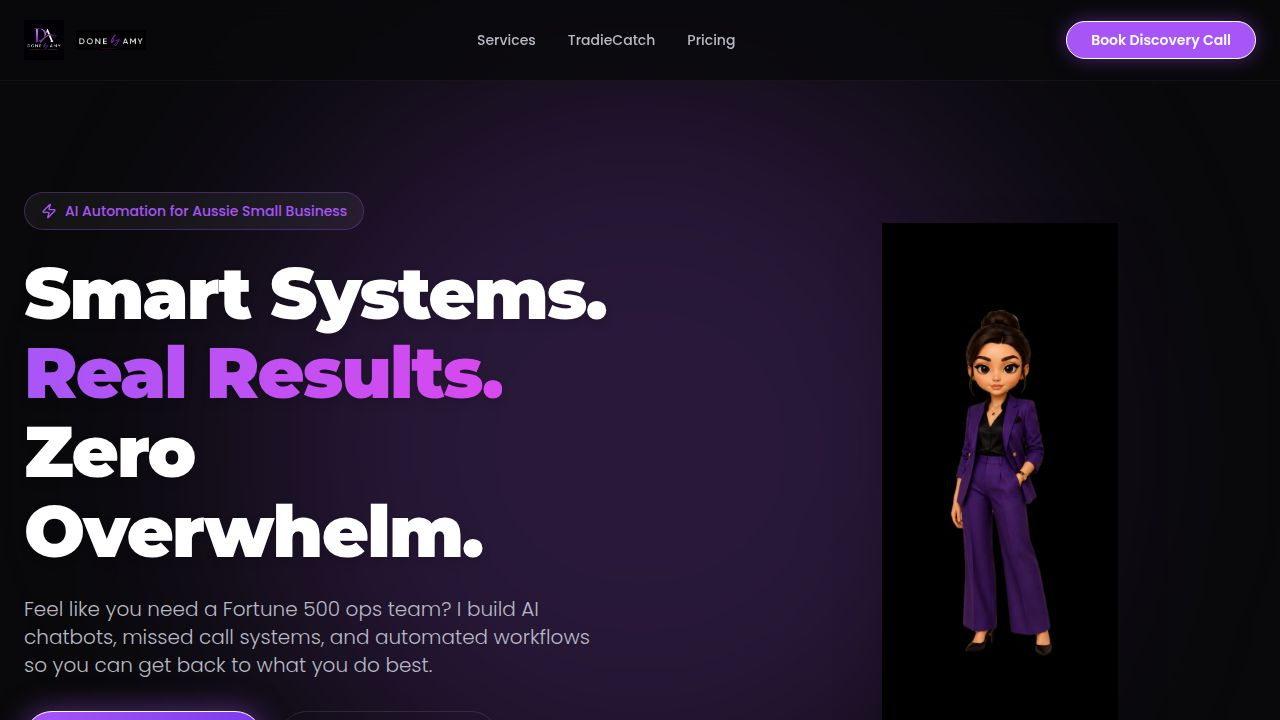
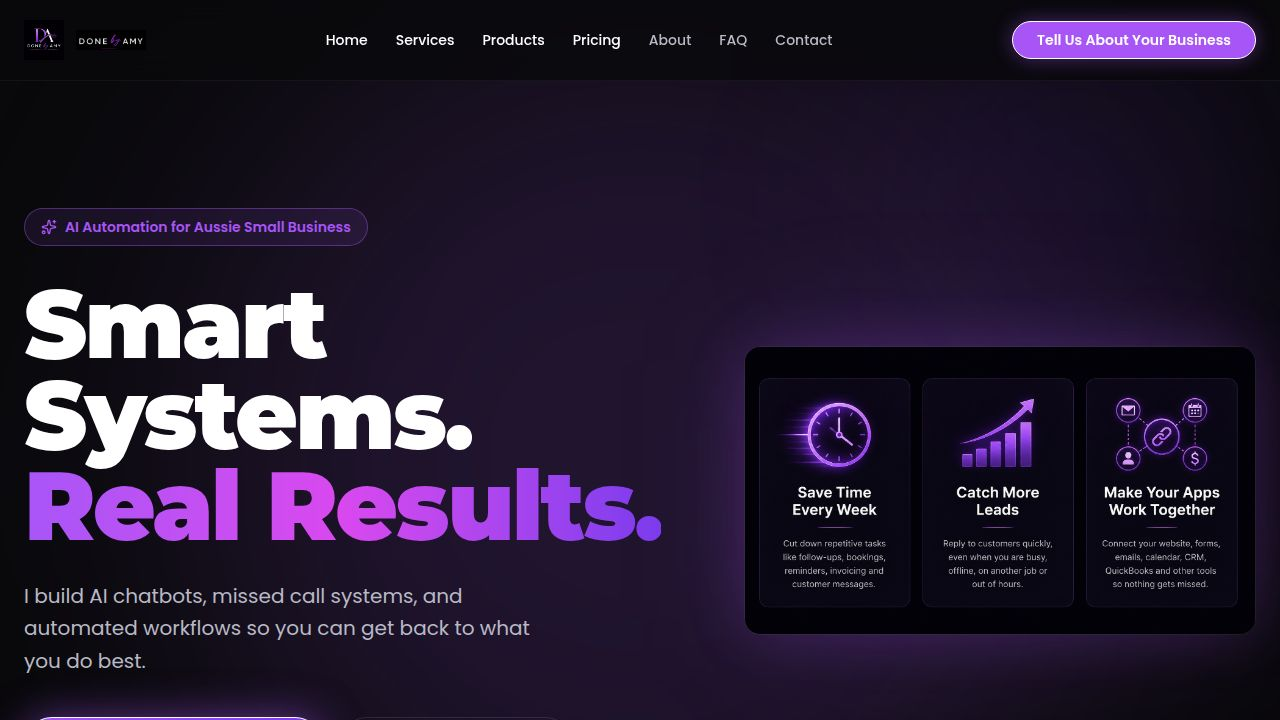
Update the website's tagline to emphasize business automation benefits
Change the main heading on the about page from "I automate businesses." to "I build businesses that run themselves." in `artifacts/done-by-amy/src/pages/about.tsx`.

Replit-Commit-Author: Agent
Replit-Commit-Session-Id: 6b835b74-2bc1-43fe-a595-347df09599c3
Replit-Commit-Checkpoint-Type: full_checkpoint
Replit-Commit-Event-Id: 8bb233c6-cea0-4b60-9908-34b3959fce5c
Replit-Commit-Screenshot-Url: https://storage.googleapis.com/screenshot-production-us-central1/72a25454-6006-4e30-8542-b3e00eeba941/6b835b74-2bc1-43fe-a595-347df09599c3/7IGzPTD
Replit-Helium-Checkpoint-Created: true

diff --git a/artifacts/done-by-amy/src/pages/about.tsx b/artifacts/done-by-amy/src/pages/about.tsx
@@ -46,7 +46,7 @@ export default function About() {
               <h1 className="text-5xl md:text-6xl font-black leading-tight mb-6 tracking-tight">
                 Hi, I'm Amy.<br />
                 <span className="text-transparent bg-clip-text bg-gradient-to-r from-primary to-accent">
-                  I automate businesses.
+                  I build businesses that run themselves.
                 </span>
               </h1>
               <p className="text-lg text-muted-foreground mb-6 max-w-lg">